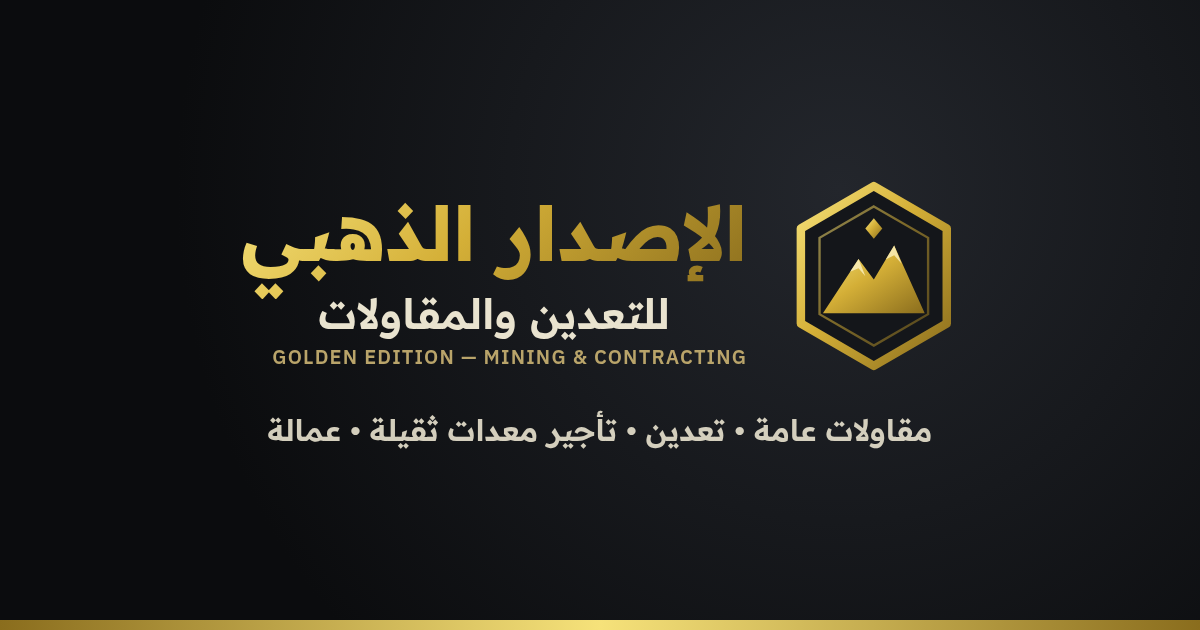
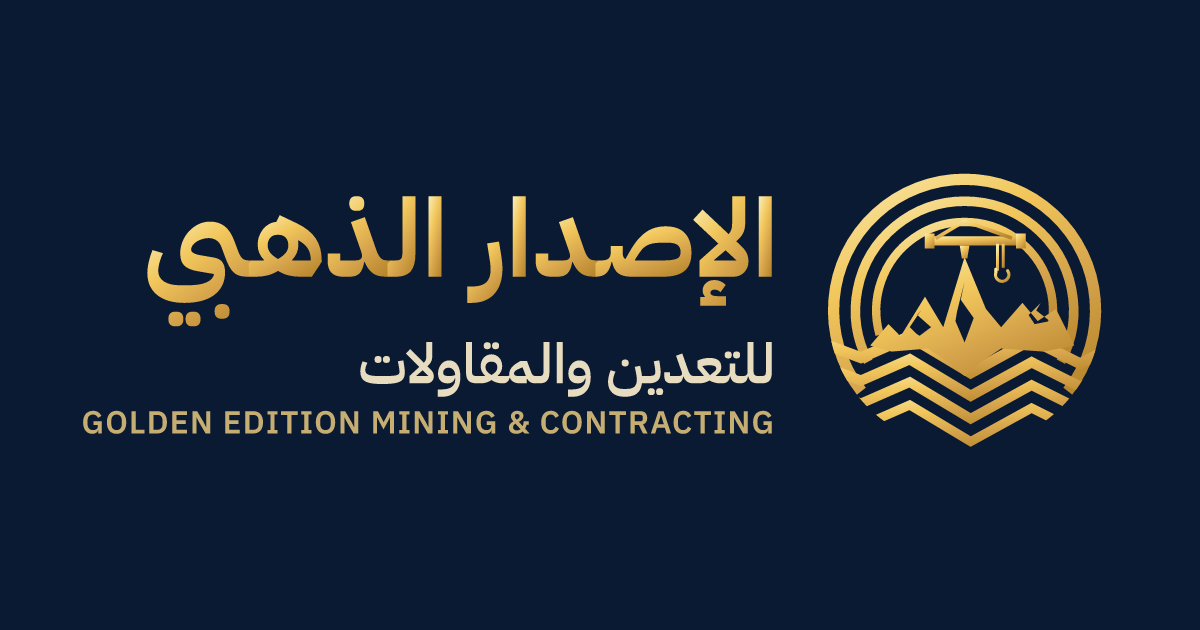
Replace the brand mark with the circular gold emblem.
The new lockup is a hand-built vector: concentric arcs, a faceted range,
a tower crane, and rock strata, with the Arabic and English names outlined
in IBM Plex Sans Arabic so they render the same everywhere.

diff --git a/components/Logo.tsx b/components/Logo.tsx
@@ -1,31 +1,14 @@
-/** Default brand logo (used when no logo is uploaded in the dashboard). */
-export function Emblem({ className, dark = true }: { className?: string; dark?: boolean }) {
-  const id = dark ? "ge-d" : "ge-l";
-  return (
-    <svg viewBox="0 0 100 112" className={className} aria-hidden="true">
-      <defs>
-        <linearGradient id={`${id}-g`} x1="0" y1="0" x2="1" y2="1">
-          <stop offset="0" stopColor="#f6e27a" /><stop offset=".45" stopColor="#d4af37" /><stop offset="1" stopColor="#8a6d1d" />
-        </linearGradient>
-      </defs>
-      <path d="M50 3 93 28v56L50 109 7 84V28z" fill={dark ? "#14161a" : "#1b1d22"} stroke={`url(#${id}-g)`} strokeWidth="5" strokeLinejoin="round" />
-      <path d="M50 15 82 33.5v45L50 97 18 78.5v-45z" fill="none" stroke={`url(#${id}-g)`} strokeWidth="1.4" opacity=".55" />
-      <path d="M20 78 41 46l9 12 12-20 18 40z" fill={`url(#${id}-g)`} />
-      <path d="M41 46l-5 7.5 5-2 4 4.6z M62 38l-5 8.2 5-2.4 4.4 5z" fill="#fff6c9" opacity=".75" />
-      <path d="M50 22l5 6-5 6-5-6z" fill={`url(#${id}-g)`} />
-      <path d="M26 84h48" stroke={`url(#${id}-g)`} strokeWidth="2.4" strokeLinecap="round" />
-    </svg>
-  );
+/** Default brand lockup. Used when the dashboard has no custom logo upload. */
+export function Emblem({ className }: { className?: string; dark?: boolean }) {
+  return <img src="/mark.svg" alt="" className={className} />;
 }
+
 export default function Logo({ dark = true, className = "" }: { dark?: boolean; className?: string }) {
   return (
-    <span className={`brand-logo ${className}`} role="img" aria-label="الإصدار الذهبي للتعدين والمقاولات — Golden Edition Mining & Contracting">
-      <Emblem className="brand-emblem" dark={dark} />
-      <span className="brand-words">
-        <span className="brand-ar gold-grad">الإصدار الذهبي</span>
-        <span className="brand-sub" style={{ color: dark ? "#e9e3cf" : "#2a2c31" }}>للتعدين والمقاولات</span>
-        <span className="brand-en" dir="ltr" style={{ color: dark ? "#b9a46a" : "#8a6d1d" }}>GOLDEN EDITION — MINING &amp; CONTRACTING</span>
-      </span>
-    </span>
+    <img
+      src={dark ? "/logo.svg" : "/logo-light.svg"}
+      alt="الإصدار الذهبي للتعدين والمقاولات — Golden Edition Mining & Contracting"
+      className={`logo ${className}`}
+    />
   );
 }

diff --git a/lib/store.ts b/lib/store.ts
@@ -4,6 +4,21 @@ import type { Content } from "./types";
 
 const PREFIX = "content/settings";
 
+// Previous built-in logo files. A saved setting that still points at one of
+// these falls back to the new mark; anything else is a custom upload and stays.
+const LEGACY_LOGO_PATHS = new Set(["/logo.svg", "/logo.png", "/logo-light.svg", "/logo-light.png", "/mark.svg"]);
+const LEGACY_FAVICON_PATHS = new Set([
+  "/favicon.ico", "/favicon-32.png", "/apple-touch-icon.png", "/apple-icon.png", "/icon.png", "/icon-512.png", "/mark.svg",
+]);
+
+function publicPath(v: unknown): string {
+  if (typeof v !== "string" || !v) return "";
+  if (v.startsWith("http://") || v.startsWith("https://")) {
+    try { return new URL(v).pathname; } catch { return ""; }
+  }
+  return v;
+}
+
 function merge<T>(base: T, over: unknown): T {
   if (Array.isArray(base)) return (Array.isArray(over) ? over : base) as T;
   if (base && typeof base === "object") {
@@ -38,6 +53,8 @@ export async function getContent(): Promise<Content> {
       if (id && id.logoSizeMobile === 44) delete id.logoSizeMobile;
     }
     const c = merge(defaults, stored);
+    if (LEGACY_LOGO_PATHS.has(publicPath(c.identity.logo))) c.identity.logo = "";
+    if (LEGACY_FAVICON_PATHS.has(publicPath(c.identity.favicon))) c.identity.favicon = "";
     const blank = { slug: "", title: "", desc: "", image: "", seoTitle: "", seoDesc: "", ogImage: "", points: "", images: [] as string[], highlight: "" };
     c.services = (c.services as Partial<Content["services"][number]>[]).map((s, i) => ({ ...blank, ...s, slug: s.slug || `service-${i + 1}` }));
     return c;

diff --git a/app/layout.tsx b/app/layout.tsx
@@ -17,7 +17,15 @@ export async function generateMetadata(): Promise<Metadata> {
     title: { default: c.seo.title, template: `%s | ${c.hero.badge}` },
     description: c.seo.description,
     keywords: c.seo.keywords.split(/[,،]/).map((s) => s.trim()).filter(Boolean),
-    icons: c.identity.favicon ? { icon: c.identity.favicon } : { icon: [{ url: "/mark.svg", type: "image/svg+xml" }, { url: "/favicon-32.png", sizes: "32x32" }], apple: "/apple-touch-icon.png" },
+    icons: c.identity.favicon ? { icon: c.identity.favicon } : {
+      icon: [
+        { url: "/favicon.ico", sizes: "any" },
+        { url: "/icon.png", type: "image/png", sizes: "512x512" },
+        { url: "/favicon-32.png", type: "image/png", sizes: "32x32" },
+        { url: "/mark.svg", type: "image/svg+xml" },
+      ],
+      apple: "/apple-icon.png",
+    },
     openGraph: { title: c.seo.title, description: c.seo.description, locale: "ar_SA", type: "website", url: "/", siteName: c.seo.title, images: og ? [og] : undefined },
     twitter: { card: "summary_large_image", title: c.seo.title, description: c.seo.description, images: og ? [og] : undefined },
   };
